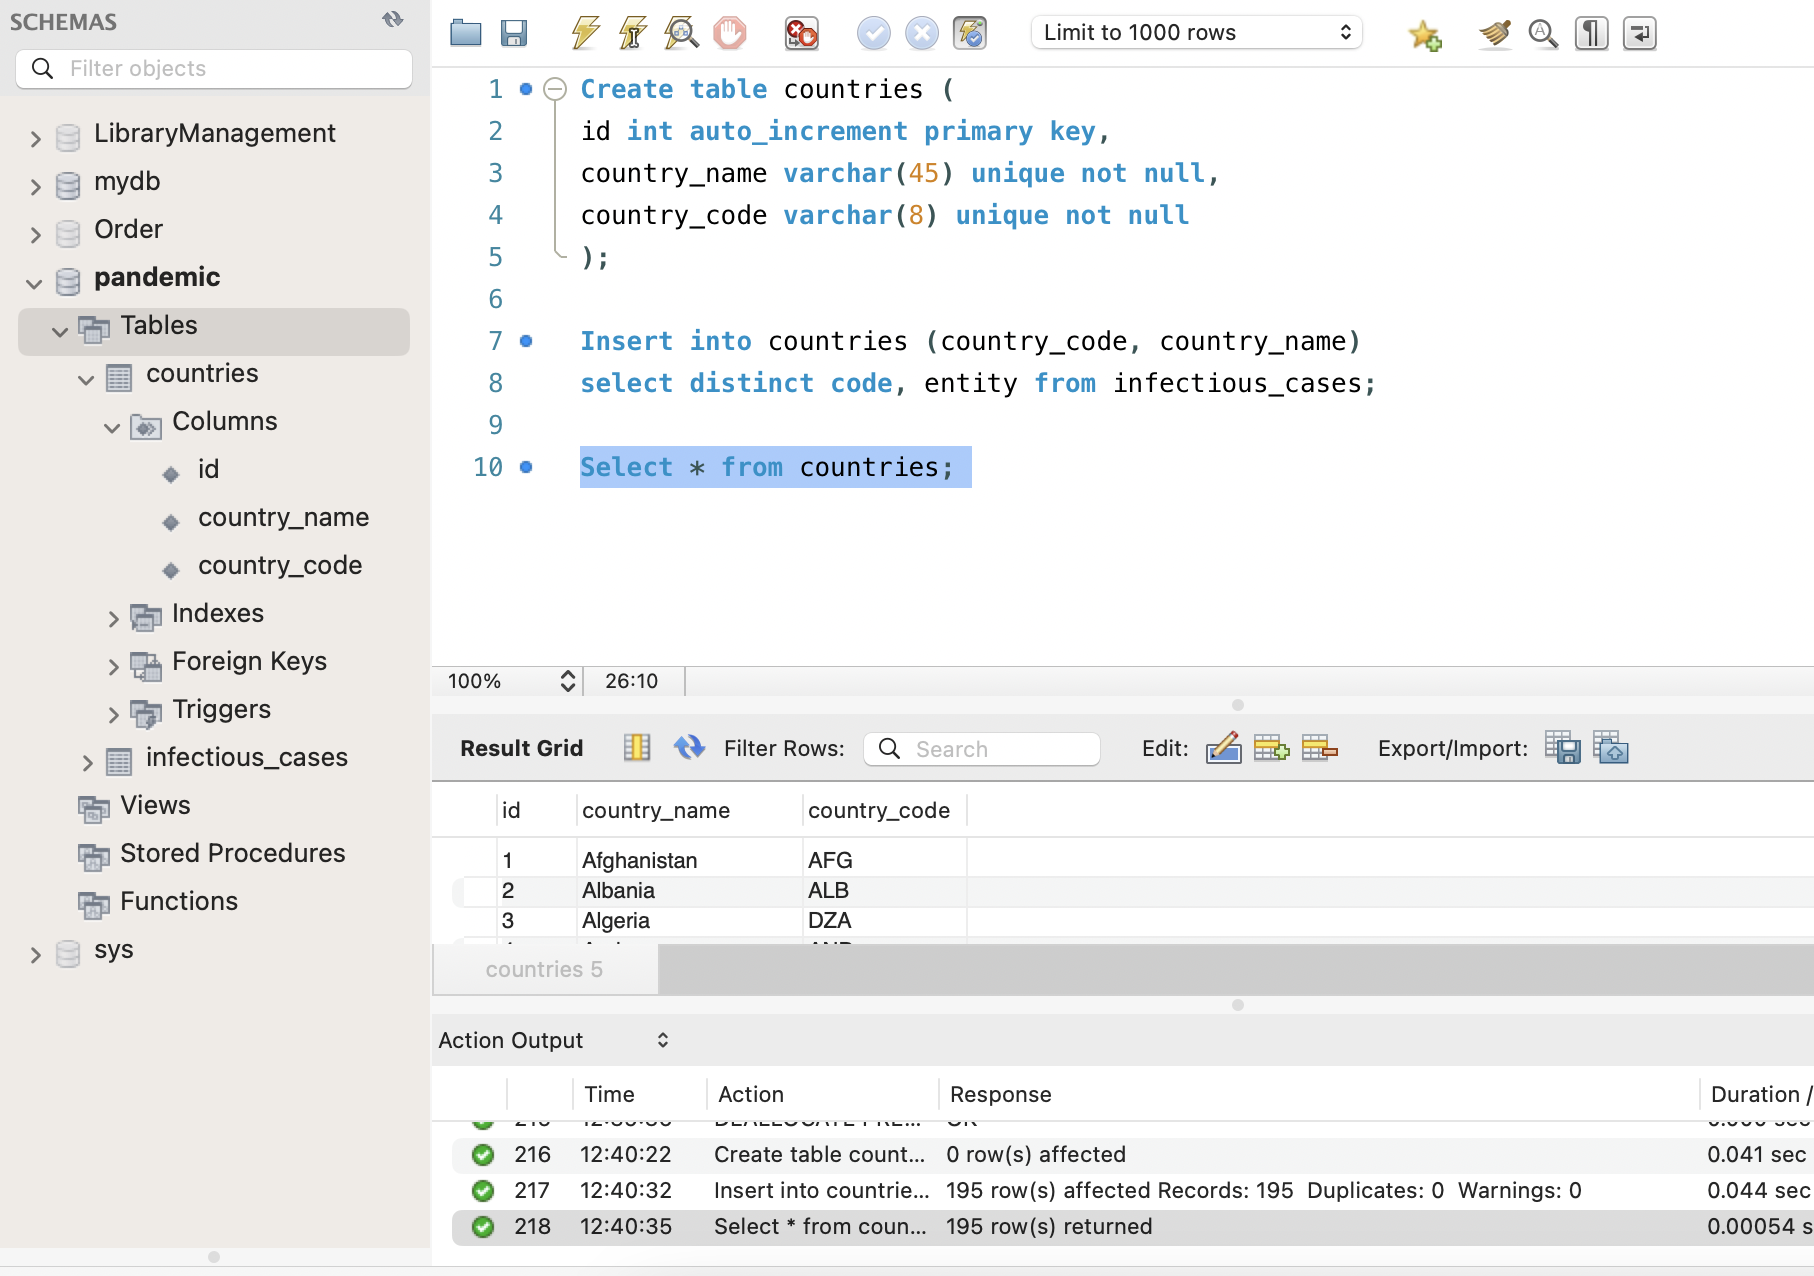
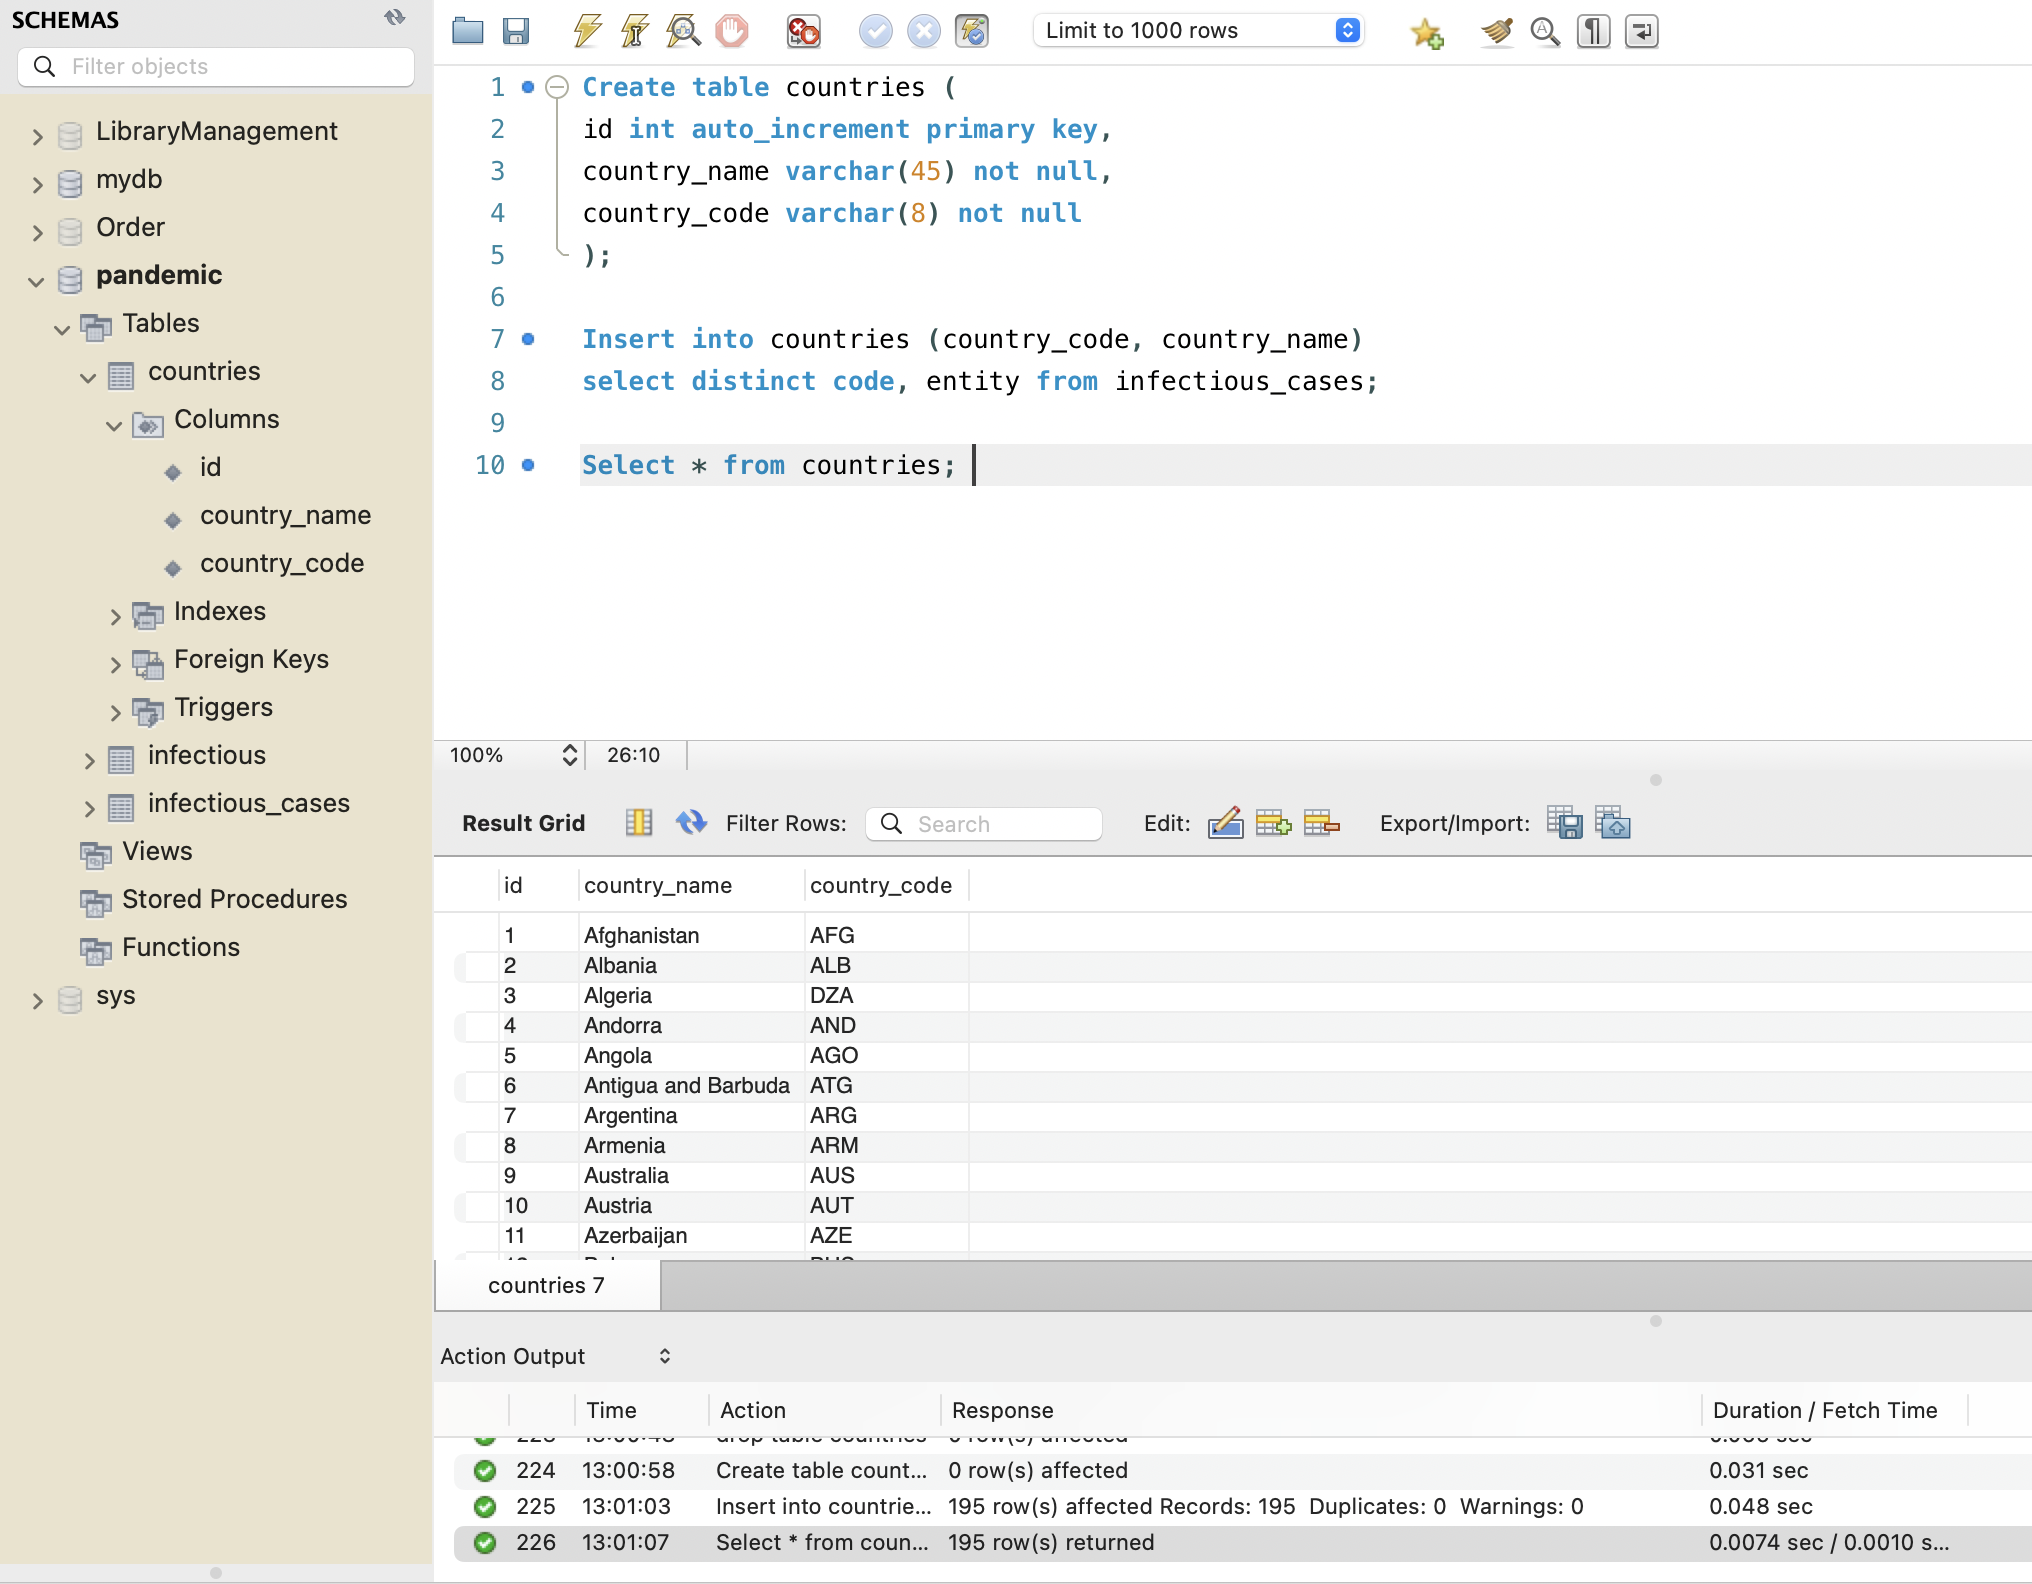
fix task 2.1

diff --git a/README.md b/README.md
@@ -13,8 +13,8 @@ Select * from infectious_cases;
 ```sql
 Create table countries (
 id int auto_increment primary key,
-country_name varchar(45) unique not null, 
-country_code varchar(8) unique not null
+country_name varchar(45) not null,
+country_code varchar(8) not null
 );
 
 Insert into countries (country_code, country_name)
